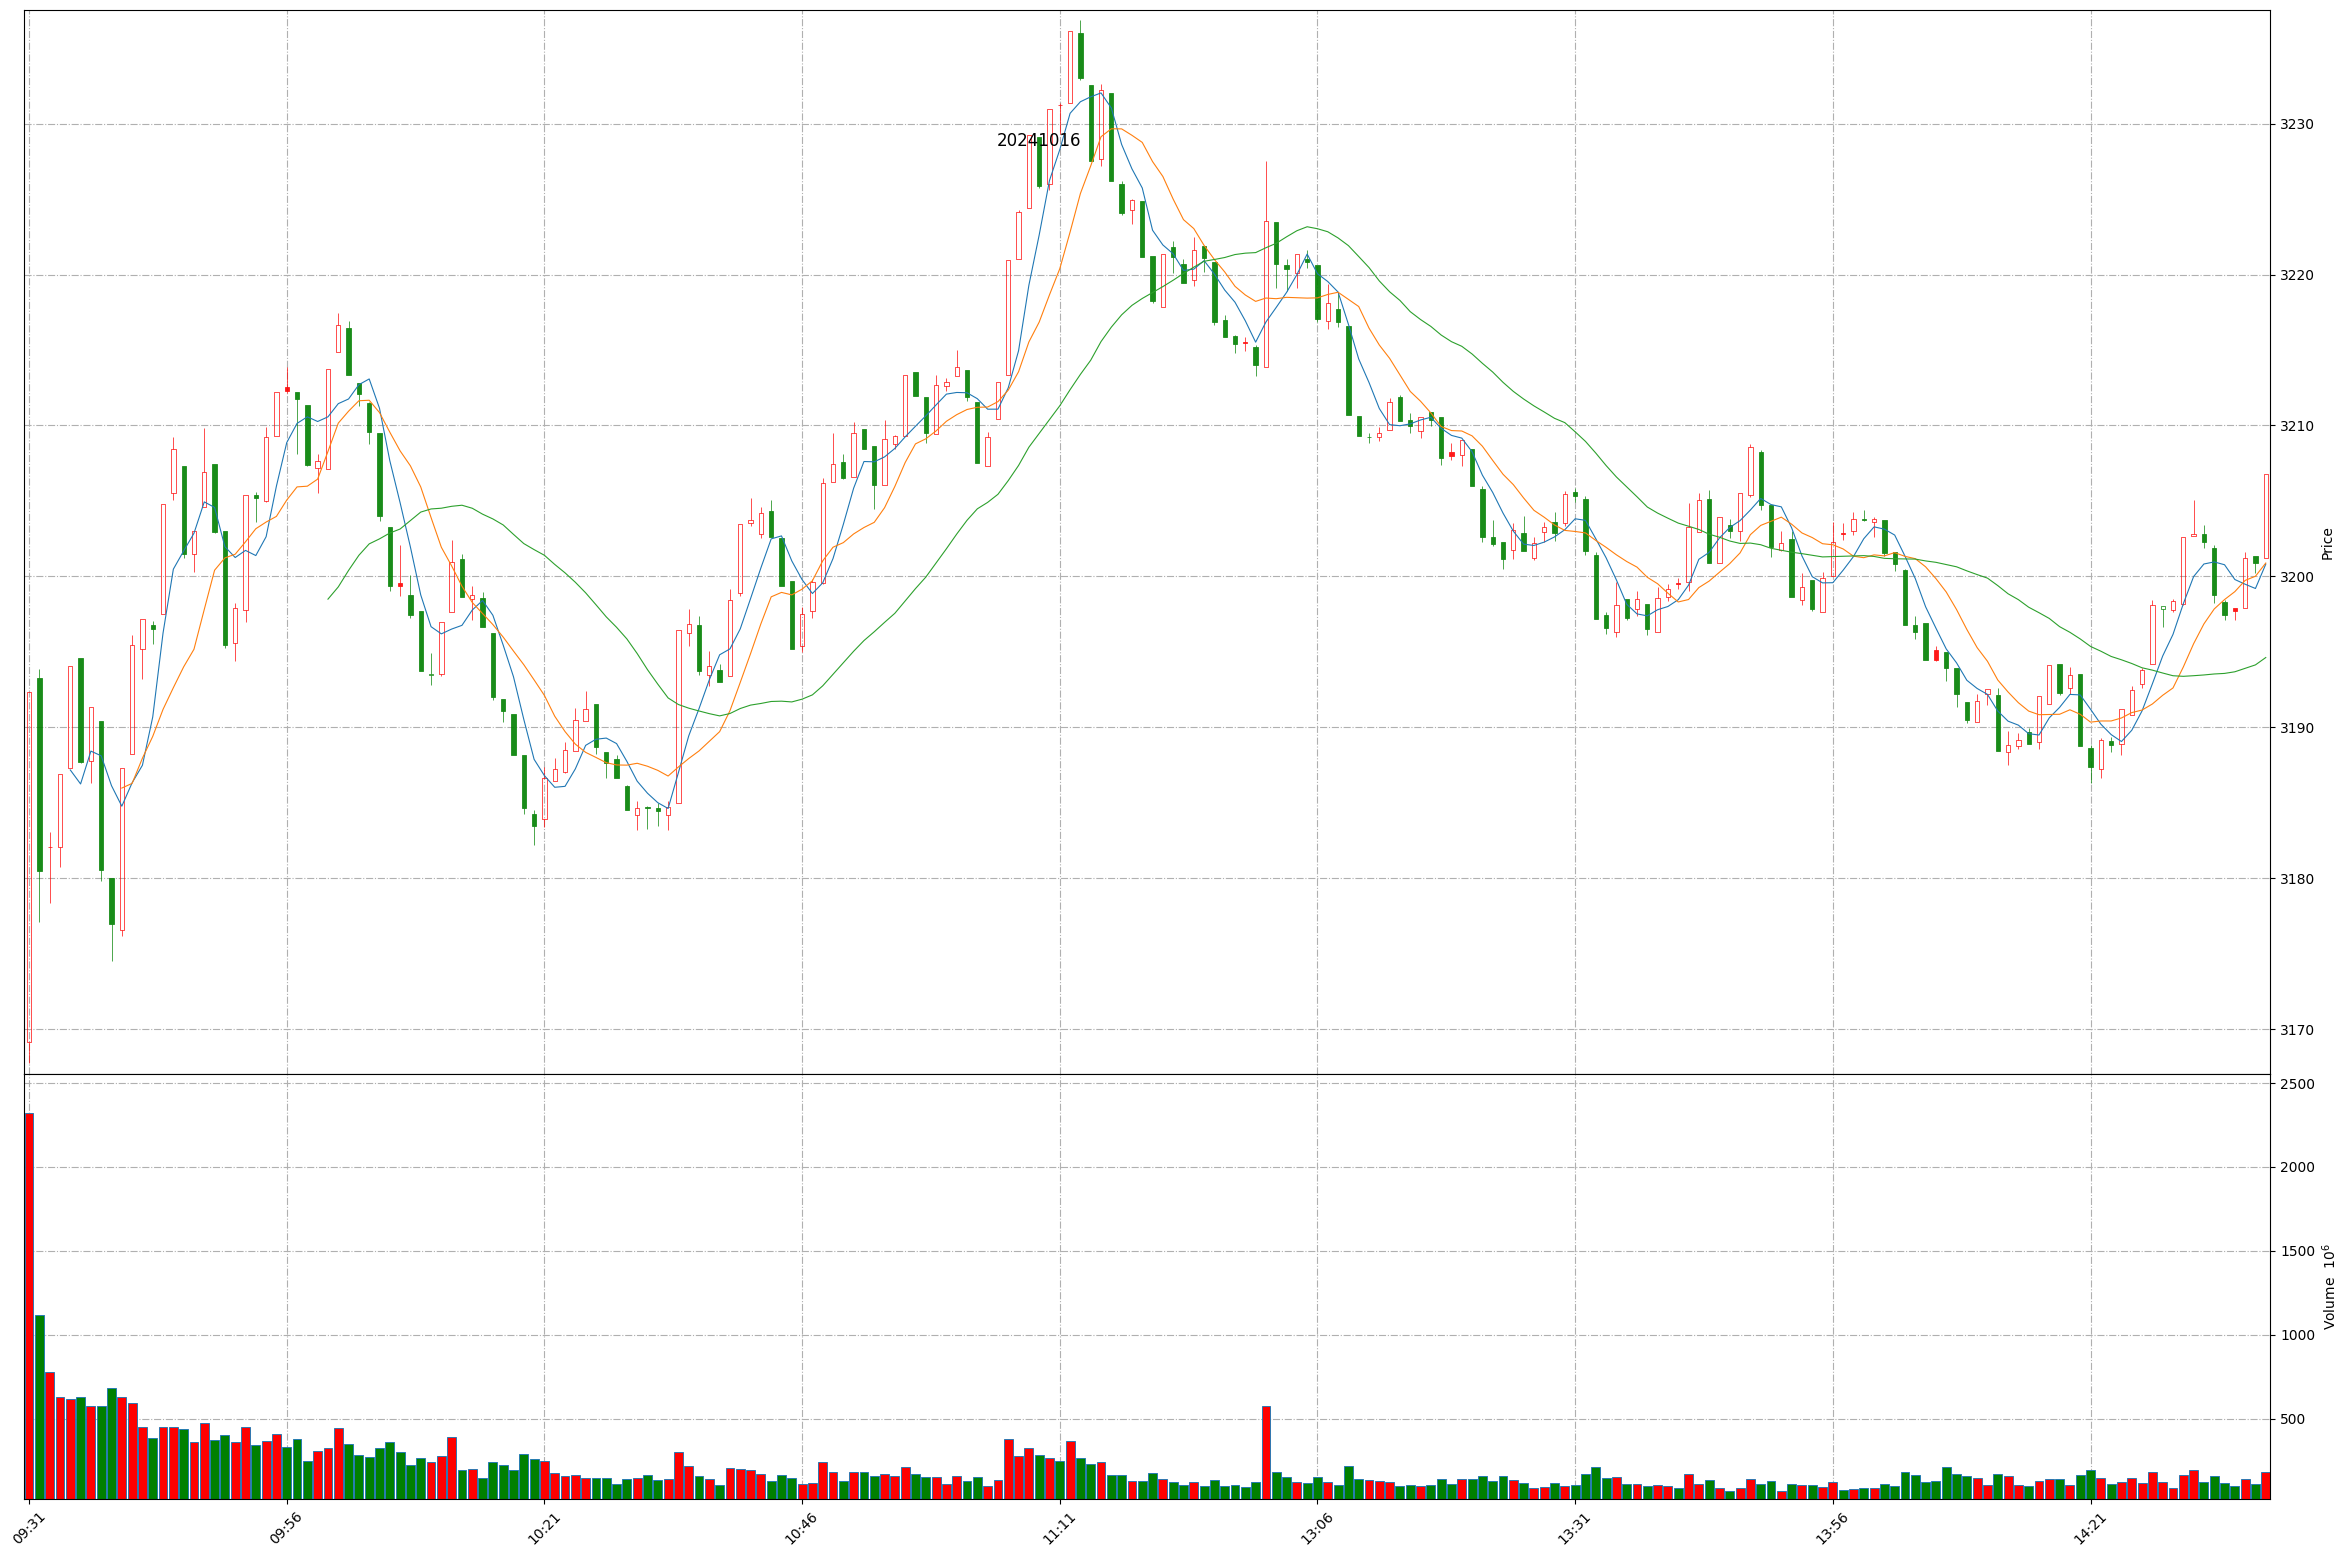
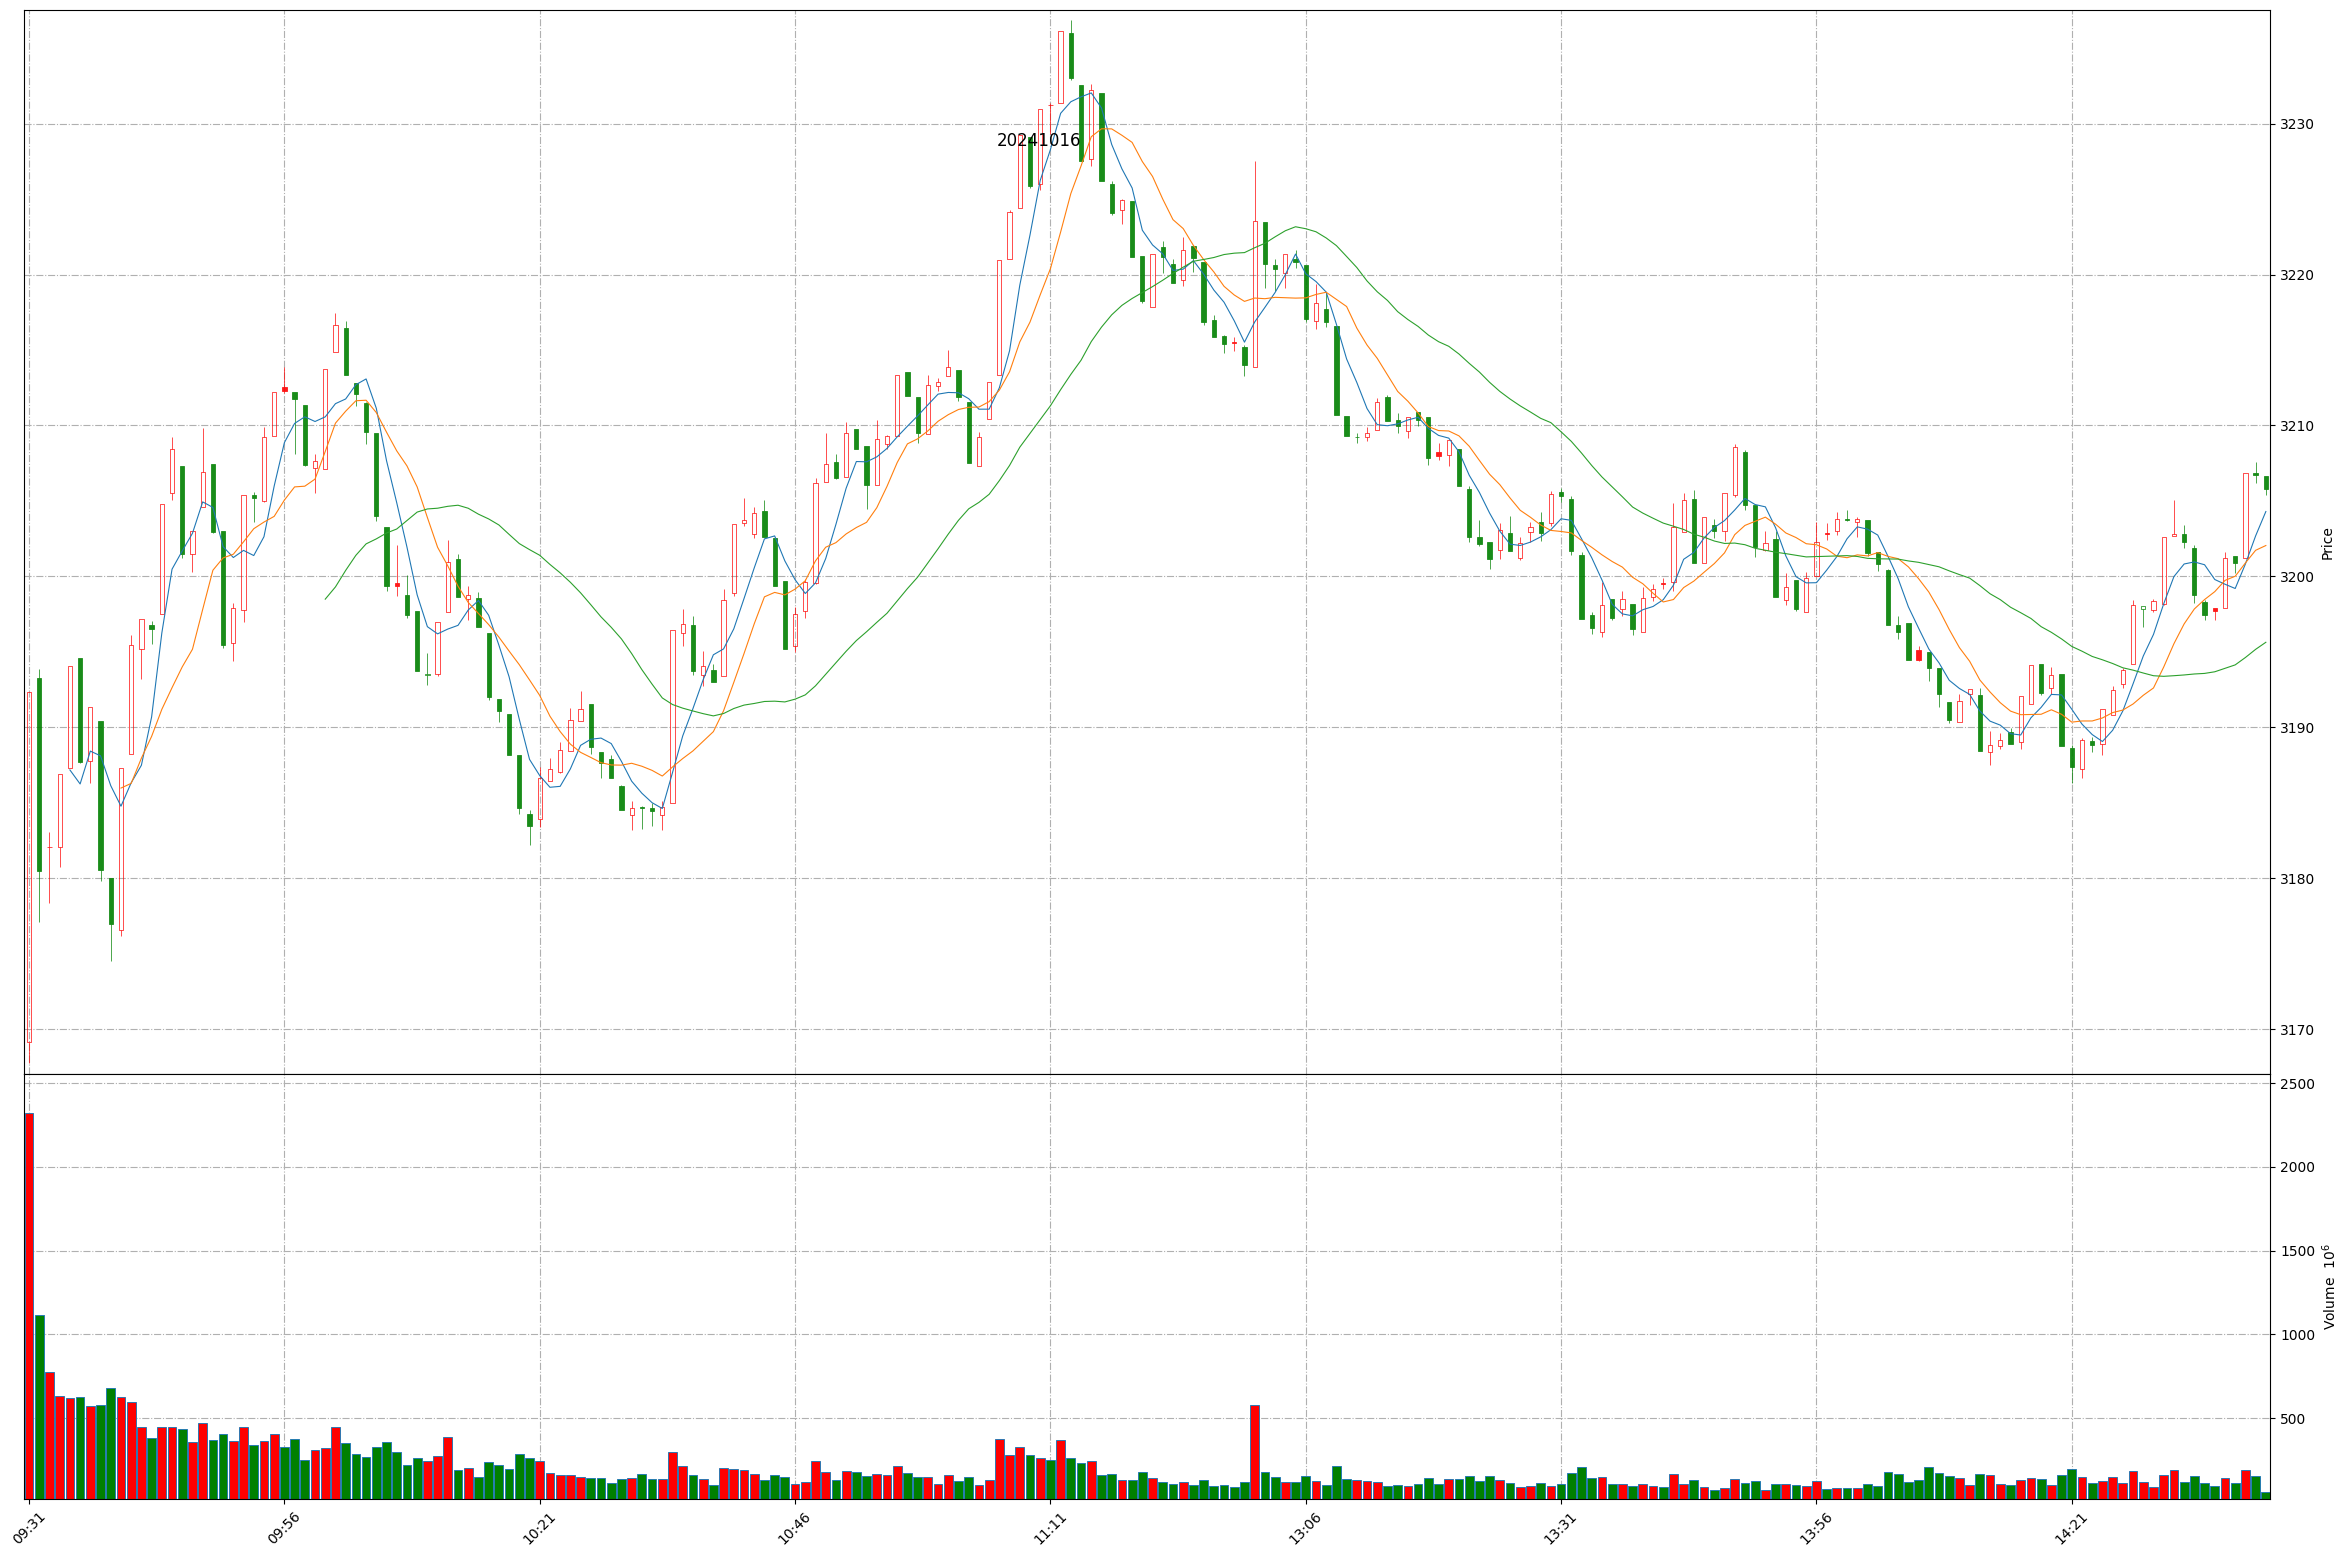
Github action update at 2024-10-16 14:39:52.

diff --git a/README.md b/README.md
@@ -1,11 +1,11 @@
 
 # Daily-A-share-market-quotes 每日 A 股指数（5min 更新）- 20241016
 
-### 上证指数 20241016 14:38
+### 上证指数 20241016 14:39
 ![](./fig/2024/10/20241016-sh000001.png)
 
-### 深证成指 20241016 14:38
+### 深证成指 20241016 14:39
 ![](./fig/2024/10/20241016-sz399001.png)
 
-### 北证50 20241016 14:38
+### 北证50 20241016 14:39
 ![](./fig/2024/10/20241016-bj899050.png)
